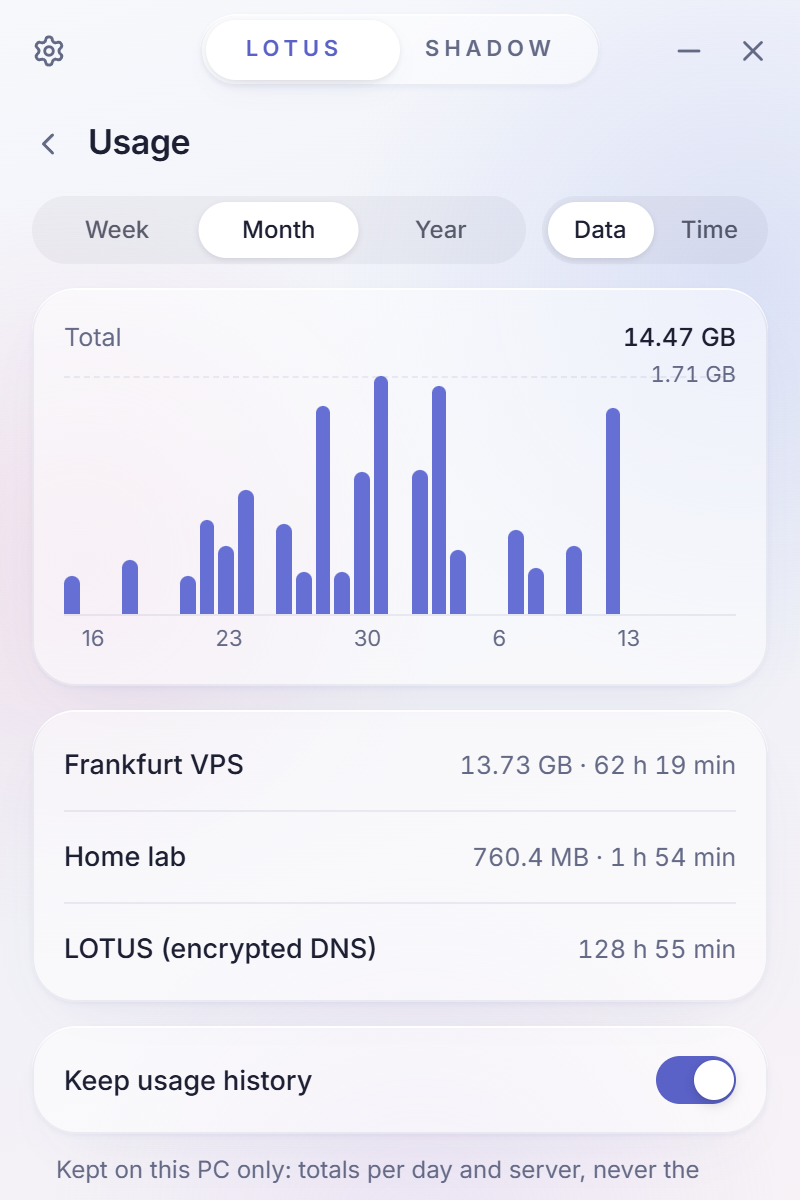
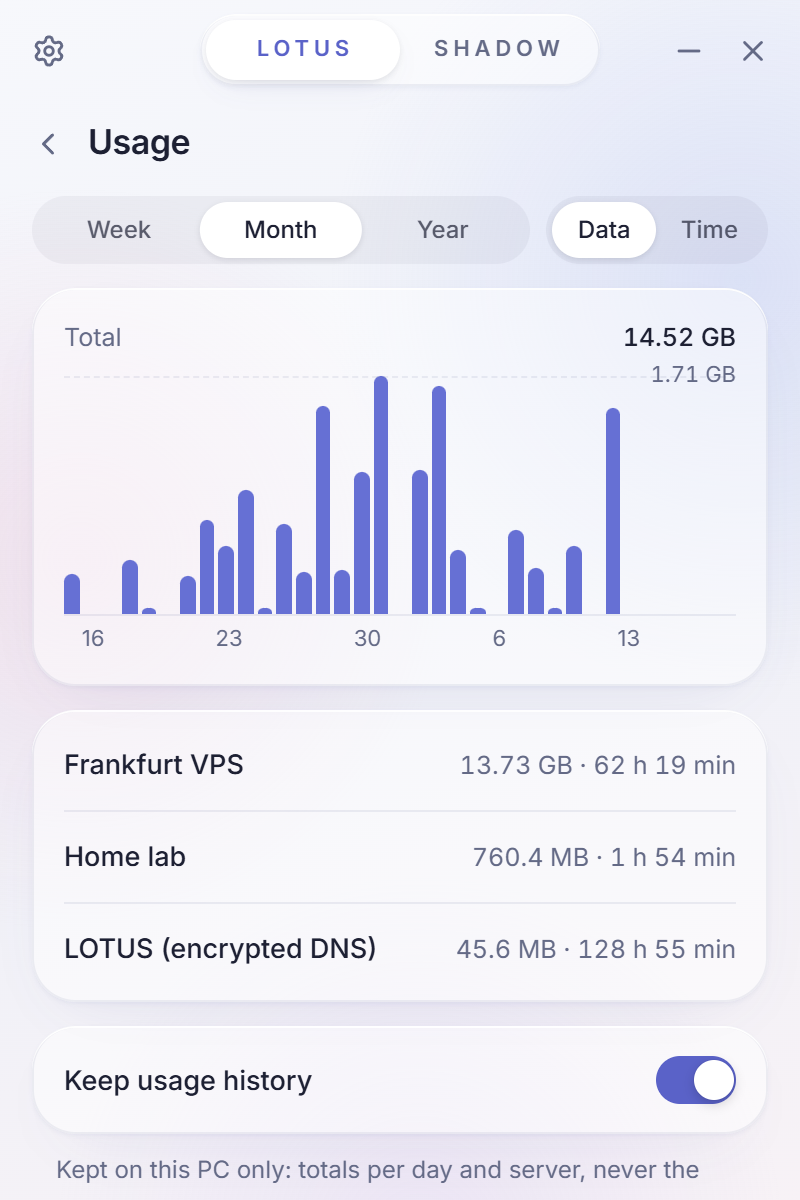
README: new screenshots and hero; clearer text; LOTUS data in usage
- Retook all screenshots from the current app and added two (Connection:
  what goes through your server; Split tunnelling). Hero re-rendered with
  the LOTUS session line. Screenshot grid is now 2 x 4.
- Rewrote the README: shorter intro, tighter mode table with a "You
  choose" row, features grouped (Protection, Control, Insight, Everyday)
  and updated for 1.5-1.6, server script steps as a list, GitHub note
  boxes, test table gains the LOTUS byte check and split-tunnel routing.
- Usage page: LOTUS data (recorded since 1.5.0) now counts in the chart
  and its row, not only time.

diff --git a/app/src/screens/Usage.tsx b/app/src/screens/Usage.tsx
@@ -55,7 +55,7 @@ function buckets(days: UsageDay[], range: Range): Bucket[] {
     const b = index.get(range === "year" ? d.date.slice(0, 7) : d.date);
     if (!b) continue;
     b.seconds += d.seconds;
-    if (d.mode === "shadow") b.bytes += d.up + d.down;
+    b.bytes += d.up + d.down;
   }
   return out;
 }
@@ -67,7 +67,7 @@ function perServer(days: UsageDay[], keys: Set<string>, range: Range) {
     if (!keys.has(range === "year" ? d.date.slice(0, 7) : d.date)) continue;
     const id = d.mode === "lotus" ? "lotus" : `s:${d.server_id ?? d.server ?? "?"}`;
     const r = rows.get(id) ?? { name: d.mode === "lotus" ? "LOTUS (encrypted DNS)" : d.server ?? "Server", bytes: 0, seconds: 0 };
-    r.bytes += d.mode === "shadow" ? d.up + d.down : 0;
+    r.bytes += d.up + d.down;
     r.seconds += d.seconds;
     if (d.server) r.name = d.mode === "lotus" ? r.name : d.server;
     rows.set(id, r);

diff --git a/app/src/dev/mock.ts b/app/src/dev/mock.ts
@@ -276,7 +276,7 @@ export async function installMock() {
             const seed = Math.sin(i * 12.9898) * 43758.5453;
             const r = seed - Math.floor(seed);
             if (r < 0.18) continue;
-            out.push({ date: key, mode: "lotus", seconds: Math.round(3600 * (2 + r * 6)), up: 0, down: 0 });
+            out.push({ date: key, mode: "lotus", seconds: Math.round(3600 * (2 + r * 6)), up: Math.round(4e5 * (1 + r)), down: Math.round(9e5 * (1 + r)) });
             if (r > 0.4) out.push({ date: key, mode: "shadow", server_id: "p1", server: "Frankfurt VPS", seconds: Math.round(3600 * r * 5), up: Math.round(4e7 * r), down: Math.round(1.6e9 * r * r) });
             if (r > 0.85) out.push({ date: key, mode: "shadow", server_id: "p2", server: "Home lab", seconds: Math.round(1800 * r), up: Math.round(9e6 * r), down: Math.round(2e8 * r) });
           }

diff --git a/README.md b/README.md
@@ -16,52 +16,71 @@
 
 ---
 
-LOTUS is a small, fast desktop app with one big switch and two ways to protect you. **LOTUS mode** encrypts every DNS lookup on your PC without changing your IP address. **SHADOW mode** sends your entire device's traffic through an encrypted tunnel to a server *you* own, so websites see your server instead of you.
+LOTUS is a small desktop app with one switch and two ways to protect you:
 
-There's no account, no subscription, no telemetry, and no central LOTUS infrastructure. You choose the resolver, and you run the server.
+- **LOTUS mode** encrypts every DNS lookup on your PC. Your IP address stays the same.
+- **SHADOW mode** sends your traffic through an encrypted tunnel to a server you own, so websites see your server instead of you.
+
+No account, no subscription, no telemetry, and no LOTUS servers in the middle. You pick the resolver and you run the server.
 
 ## Two modes, one switch
 
-| | **LOTUS**: private DNS | **SHADOW**: your own VPN |
+| | **LOTUS** · private DNS | **SHADOW** · your own VPN |
 |---|---|---|
-| **What it protects** | Every DNS lookup, from every app | All traffic from the device: TCP and UDP, IPv4 and IPv6 |
-| **Your public IP** | Unchanged (by design) | Your server's IP |
-| **Needs a server** | No | Yes, any Debian, Ubuntu or Arch Linux VPS (one-script setup) |
-| **Encryption** | DNS-over-HTTPS, DoH over HTTP/3, DNS-over-TLS | VLESS + REALITY + XTLS-Vision by default; Hysteria2, Trojan, Shadowsocks-2022, TUIC, AnyTLS, NaiveProxy, WireGuard |
-| **Leak protection** | Every adapter uses LOTUS; plaintext DNS to any other server is blocked | Full TUN routing, DNS through the tunnel, persistent kill switch, optional split tunnelling |
-| **Extras** | Tracker blocking, malicious-domain filtering, custom resolvers, session stats (DNS data secured, lookup time), usage history | Live console (server check, open connections, throughput), session stats, usage history per server |
+| **Protects** | Every DNS lookup, from every app | All traffic: TCP and UDP, IPv4 and IPv6 |
+| **Your public IP** | Unchanged, by design | Your server's |
+| **Needs a server** | No | Yes: a Debian, Ubuntu or Arch Linux VPS, set up with one script |
+| **Encryption** | DNS-over-HTTPS, DNS-over-HTTP/3, DNS-over-TLS | VLESS + REALITY + Vision by default; also Hysteria2, Trojan, Shadowsocks-2022, TUIC, AnyTLS, NaiveProxy, WireGuard |
+| **Leak protection** | Every network adapter uses LOTUS; plain DNS to anything else is blocked | Whole-device tunnel, DNS through the tunnel, a kill switch that survives crashes |
+| **You choose** | Resolver, protocol, tracker and malware blocking | What goes through the server, and which apps and sites skip it |
 
-> LOTUS mode can't hide your IP: that's only possible by relaying traffic through another machine, which is exactly what SHADOW does. Read more in [LOTUS vs SHADOW](docs/MODES.md).
+LOTUS mode can't hide your IP address. Only relaying your traffic through another machine can, and that's what SHADOW does. More in [LOTUS vs SHADOW](docs/MODES.md).
 
 ## Screenshots
 
 <table>
   <tr>
-    <td align="center"><img src="docs/screenshots/lotus-off.png" width="240" alt="LOTUS mode, off"><br><sub>LOTUS: ready</sub></td>
-    <td align="center"><img src="docs/screenshots/lotus-on.png" width="240" alt="LOTUS mode, protected, showing DNS data secured, session time and lookup time"><br><sub>LOTUS: protected, with session stats</sub></td>
-    <td align="center"><img src="docs/screenshots/shadow-on.png" width="240" alt="SHADOW mode, connected, showing traffic secured, session time and latency"><br><sub>SHADOW: connected, traffic secured</sub></td>
+    <td align="center" width="25%"><img src="docs/screenshots/lotus-off.png" alt="LOTUS mode, off"><br><sub>LOTUS, ready</sub></td>
+    <td align="center" width="25%"><img src="docs/screenshots/lotus-on.png" alt="LOTUS mode on: DNS data secured, session time and lookup time"><br><sub>LOTUS, protected</sub></td>
+    <td align="center" width="25%"><img src="docs/screenshots/shadow-off.png" alt="SHADOW mode, off"><br><sub>SHADOW, ready</sub></td>
+    <td align="center" width="25%"><img src="docs/screenshots/shadow-on.png" alt="SHADOW mode on: data secured, session time, latency and exit IP"><br><sub>SHADOW, connected</sub></td>
   </tr>
   <tr>
-    <td align="center"><img src="docs/screenshots/shadow-off.png" width="240" alt="SHADOW mode, off"><br><sub>SHADOW: midnight theme</sub></td>
-    <td align="center"><img src="docs/screenshots/console.png" width="240" alt="Live console with server verification and live connections"><br><sub>Live console: verify your server, watch traffic</sub></td>
-    <td align="center"><img src="docs/screenshots/usage.png" width="240" alt="Usage history: data per day this month and per server"><br><sub>Usage history, kept on your PC</sub></td>
+    <td align="center"><img src="docs/screenshots/connection.png" alt="Connection settings: send traffic and DNS, traffic only, or DNS only through your server"><br><sub>Choose what goes through your server</sub></td>
+    <td align="center"><img src="docs/screenshots/split.png" alt="Split tunnelling: excluded apps and sites, with apps open now to add"><br><sub>Split tunnelling</sub></td>
+    <td align="center"><img src="docs/screenshots/console.png" alt="Live console: server check and live connections"><br><sub>Live console</sub></td>
+    <td align="center"><img src="docs/screenshots/usage.png" alt="Usage history: data per day this month and per server"><br><sub>Usage history</sub></td>
   </tr>
 </table>
 
-## Highlights
+## Features
 
-- **Calm and quick.** Glass panels, a soft light that follows your pointer, and motion that settles in about 200 ms. It's ready about 120 ms after launch, and while nothing changes the window draws nothing at all. Drag it from anywhere along the top.
-- **See it working.** The SHADOW live console verifies your server (an authenticated handshake, plus what a stranger probing it sees: for REALITY, the camouflage site's real certificate), graphs throughput, and lists every open connection and whether it goes through the tunnel.
-- **Choose what goes through your server.** Everything, traffic only (faster lookups straight to the encrypted resolver) or DNS only. Split tunnelling excludes apps and sites from the tunnel, or sends only the ones you list. Pick apps from the ones open now.
-- **Switch without dropping out.** Picking the other tab leaves your connection alone; press the switch to move over. If the new mode or server can't connect, the one you were on comes straight back. Changing the resolver or other settings while connected applies at once, and is undone if it would leave you offline.
-- **Usage history.** Data and time per day, month or year, per server. Only totals are kept, never the sites you visit, and only on your PC. Switch it off or clear it whenever you like.
-- **Keeps itself up to date.** LOTUS checks GitHub for new releases every few hours and downloads them in the background. Updates are signed, and install only when you press *Restart to update*. Protection pauses for a moment and resumes by itself. Or check by hand in **Settings → Updates**.
-- **Honest status.** SHADOW reports *Connected* only after a real handshake with your server **and** a request through Windows' own routing came back from your server's IP. LOTUS reports *Protected* only after the encrypted resolver actually answered.
-- **A kill switch that survives crashes.** Persistent Windows Filtering Platform rules allow only the tunnel. In testing, killing the engine *or the LOTUS service itself* leaked nothing, and the connection came back by itself.
-- **Bring your own server.** Paste a `vless://`, `ss://`, `trojan://`, `hysteria2://`, `tuic://`, `anytls://`, `naive+https://` link, a WireGuard `.conf` or sing-box JSON. Or run the included installer on a fresh VPS and paste the `lotus://` link it prints.
-- **Secure by default.** There is no "allow insecure" switch anywhere. Links that disable certificate checks, or use unencrypted or obsolete protocols, are refused with an explanation.
-- **Privacy by design.** No accounts or analytics. Engine logs stay in memory at warning level with addresses scrubbed. Server profiles are encrypted with your Windows account (DPAPI).
-- **Light.** The background service uses ~17 MB, and the networking engine ~41–66 MB while on (none when off). With the window closed, LOTUS releases its web view completely and idles at ~5 MB.
+**Protection**
+
+- **Honest status.** SHADOW says *Connected* only after a real handshake with your server and a test request through Windows' own routing that came back from your server's address. LOTUS says *Protected* only once the encrypted resolver has actually answered.
+- **A kill switch that survives crashes.** Windows Filtering Platform rules let only the tunnel through. In testing, killing the engine or the LOTUS service leaked nothing, and the connection came back by itself.
+- **Secure by default.** There is no "allow insecure" option. Links that turn off certificate checks or use unencrypted or outdated protocols are refused, with an explanation.
+- **Private by design.** No accounts and no analytics. Engine logs stay in memory, with addresses removed. Saved servers are encrypted with your Windows account.
+
+**Control**
+
+- **Choose what goes through your server.** Everything, traffic only (lookups go straight to the encrypted resolver, which is faster), or DNS only.
+- **Split tunnelling.** Exclude apps and sites from the tunnel, or send only the ones you list. Pick apps from the ones open now. Games and calls you exclude keep full speed.
+- **Switch without dropping out.** Choosing the other mode leaves your connection on until you press the switch. If the new mode or server can't connect, the previous one comes straight back. Settings changed while connected apply at once, and are undone if they would leave you offline.
+- **Bring your own server.** Paste a `vless://`, `ss://`, `trojan://`, `hysteria2://`, `tuic://`, `anytls://` or `naive+https://` link, a WireGuard `.conf` or sing-box JSON. Or run the included installer on a fresh VPS and paste the `lotus://` link it prints.
+
+**Insight**
+
+- **Live session stats.** Data secured, time connected and latency, for both modes. In SHADOW with a split tunnel, only what actually used the tunnel is counted.
+- **Live console.** Checks your server (an authenticated handshake, plus what a stranger probing it sees), graphs throughput, and lists every open connection and whether it uses the tunnel.
+- **Usage history.** Data and time per day, month or year, per server and for LOTUS mode. Only totals are kept, never the sites you visit, and only on your PC. Turn it off or clear it at any time.
+- **Privacy check.** One click tests for DNS leaks, IPv6 leaks, routing and the kill switch.
+
+**Everyday**
+
+- **Calm and quick.** Ready about 120 ms after launch, and the window does no drawing while nothing changes. Animations can be Full, Less (short, smooth fades with no bouncing) or None.
+- **Updates itself.** LOTUS checks for new releases every few hours and downloads them in the background. Updates are signed and install only when you choose *Restart to update*.
+- **Light.** The background service uses about 17 MB, and the networking engine 41–66 MB while on (nothing when off). With the window closed, LOTUS idles at about 5 MB.
 
 ## How it works
 
@@ -72,82 +91,90 @@ flowchart LR
     SVC --> ENG["sing-box engine<br/>(SHA-256 verified)"]
     SVC --> WFP["Windows Filtering Platform<br/>DNS guard · kill switch"]
   end
-  ENG -- "LOTUS · DoH / DoH3 / DoT" --> DNS["Encrypted resolver<br/>Cloudflare · Quad9 · Mullvad · AdGuard"]
-  ENG -- "SHADOW · VLESS + REALITY + Vision<br/>or Hysteria2 (QUIC)" --> VPS["Your VPS<br/>exit IP"]
+  ENG -- "LOTUS · DoH / DoH3 / DoT" --> DNS["Encrypted resolver<br/>Cloudflare · Quad9 · Mullvad · AdGuard · Google"]
+  ENG -- "SHADOW · VLESS + REALITY + Vision<br/>or Hysteria2 (QUIC)" --> VPS["Your server<br/>exit IP"]
   VPS --> NET(("Internet"))
 ```
 
-The window you click on has **no privileges**. A small Windows service does the privileged work (DNS settings, the tunnel adapter, firewall rules) and accepts only a fixed set of typed commands. It never takes raw engine configuration, file paths or programs to run. Details in [ARCHITECTURE.md](docs/ARCHITECTURE.md).
+The window you click on has no special permissions. A small Windows service does the privileged work (DNS settings, the tunnel adapter, firewall rules) and accepts only a fixed set of typed commands: never raw engine configuration, file paths or programs to run. Details in [ARCHITECTURE.md](docs/ARCHITECTURE.md).
 
 ## Install
 
 1. Download **`LOTUS_1.6.1_x64-setup.exe`** from the [latest release](https://github.com/HighSkai/Lotus/releases/latest) and approve the administrator prompt.
 2. Open LOTUS, choose **LOTUS** or **SHADOW** at the top, and press the switch.
 
-From 1.2.0 on, LOTUS updates itself (see **Settings → Updates**). Coming from 1.1.0 or earlier, install 1.2.0 once by hand.
+Requires Windows 10 or 11 (x64). WebView2 comes with Windows 11 and is installed automatically if missing.
 
-Requirements: Windows 10 or 11 (x64). WebView2 ships with Windows 11 and is installed automatically if missing.
+> [!NOTE]
+> The installer isn't code-signed yet, so SmartScreen may show *"Windows protected your PC"*. Check the SHA-256 published with the release, then choose **More info → Run anyway**.
 
-> **Note:** the installer isn't code-signed yet, so SmartScreen may say *"Windows protected your PC"*. Choose **More info → Run anyway** after checking the SHA-256 published with the release.
+LOTUS keeps itself up to date from version 1.2.0 on. If you have 1.1.0 or earlier, install the latest version once by hand.
 
-Uninstalling (Settings → Apps → LOTUS) stops the service, restores your original DNS settings and removes every LOTUS firewall rule.
+To uninstall, use **Settings → Apps → LOTUS**. It stops the service, restores your original DNS settings and removes every LOTUS firewall rule.
 
 ## Set up your own server (SHADOW)
 
-On a VPS (or any Linux machine with a public IP) running one of:
+Any VPS or Linux machine with a public IP address, x86-64 or ARM64:
 
 | Distribution | Versions |
 |---|---|
 | Debian | 12, 13 |
 | Ubuntu | 22.04, 24.04 |
-| **Arch Linux** | rolling (also Manjaro, EndeavourOS and other Arch derivatives) |
-
-x86-64 and ARM64 are both supported.
+| Arch Linux | Rolling, including Manjaro, EndeavourOS and other Arch-based systems |
 
 ```bash
 curl -fsSLO https://github.com/HighSkai/Lotus/releases/latest/download/lotus-server-install.sh
-sudo bash lotus-server-install.sh                 # add --with-hysteria2 for a UDP/QUIC profile too
+sudo bash lotus-server-install.sh        # add --with-hysteria2 for a UDP/QUIC profile as well
 ```
 
-The script verifies the sing-box download against a pinned SHA-256, generates REALITY keys, installs a hardened systemd service, **asks** before opening ports (it never overwrites existing firewall rules), and checks the result with a real handshake before printing your `lotus://` link. Paste the link into **LOTUS → Add server → Paste**. Remove everything with `--uninstall`. Full guide: [BYO-SERVER.md](docs/BYO-SERVER.md).
+The script:
+
+- checks the sing-box download against a pinned SHA-256
+- generates REALITY keys and installs a hardened systemd service
+- asks before opening ports, and never overwrites existing firewall rules
+- tests the result with a real handshake, then prints your `lotus://` link
+
+Paste the link into **LOTUS → Add server → Paste**. Remove everything with `--uninstall`. The full guide is in [BYO-SERVER.md](docs/BYO-SERVER.md).
 
 ## Why VLESS + REALITY + Vision?
 
-Of the maintained options in late 2026, it gives the best balance:
+Of the maintained options in late 2026, it strikes the best balance:
 
-- **It looks ordinary.** The handshake is a current-browser-style TLS 1.3 visit to a real, popular website.
-- **It's hard to probe.** Anyone who isn't authenticated is quietly passed to that real site and sees its real certificate.
-- **It's easy to run.** It needs no domain or certificate.
-- **It's fast.** Vision avoids double-encrypting traffic that is already encrypted; measured close to line rate (~1 Gbps) through the full Windows tunnel.
+- **It looks ordinary.** The handshake looks like a current browser's TLS 1.3 visit to a real, popular website.
+- **It's hard to probe.** Anyone without your key is quietly passed to that real site and sees its real certificate.
+- **It's easy to run.** No domain or certificate needed.
+- **It's fast.** Vision avoids encrypting already-encrypted traffic twice; measured close to 1 Gbps through the full Windows tunnel.
 
-Hysteria2 (QUIC, with Chrome-like handshake parroting and a pinned server key) is the second option for lossy links. The full research, including what was rejected and why, is in [PROTOCOLS.md](docs/PROTOCOLS.md).
+Hysteria2 (QUIC, with a browser-like handshake and a pinned server key) is the alternative for lossy connections. The research, including what was rejected and why, is in [PROTOCOLS.md](docs/PROTOCOLS.md).
 
-> **No tool makes traffic undetectable**, and LOTUS doesn't claim to. It raises the cost of detection and keeps your data encrypted. Use it lawfully and in line with your network's rules.
+> [!IMPORTANT]
+> No tool makes traffic undetectable, and LOTUS doesn't claim to. It raises the cost of detection and keeps your data encrypted. Use it lawfully and within your network's rules.
 
-## Verified, not assumed
+## Tested, not assumed
 
-Every claim above was checked on a real Windows 11 PC with Windows' own tools and packet captures of the network card. A few results:
+Each result was checked on a real Windows 11 PC with Windows' own tools and packet captures of the network card.
 
 | Check | Result |
 |---|---|
-| LOTUS: each of the 5 resolvers answers when selected, over DoH, DoH3 or DoT, TLS 1.3 | Pass (16 of 16 combinations) |
-| LOTUS: plaintext DNS on the wire while on | None (0 of 1,338 packets) |
-| LOTUS: apps with hard-coded DNS (8.8.8.8:53) blocked | Pass |
-| SHADOW: share of bytes on the network card going to your server | 99.7%; 0 packets anywhere else |
-| SHADOW: an unencrypted web request, readable without LOTUS | Not visible on the wire; still arrives from the server |
-| SHADOW: all IPv4/IPv6 routes via the tunnel, TCP + UDP | Pass |
+| LOTUS: every resolver answers over DoH, DoH3 and DoT, with TLS 1.3 | Pass (16 of 16) |
+| LOTUS: plain DNS on the wire while on | None (0 of 1,338 packets) |
+| LOTUS: apps with hard-coded DNS (8.8.8.8:53) | Blocked |
+| LOTUS: data secured vs a packet capture | Identical, to the byte |
+| SHADOW: share of bytes going to your server | 99.7%, nothing anywhere else |
+| SHADOW: an unencrypted web request | Not readable on the wire |
+| SHADOW: IPv4 and IPv6, TCP and UDP routed via the tunnel | Pass |
+| Split tunnelling and "send through your server" choices, judged at both ends | Routed as set, in every mode |
 | Kill switch: deliberate bypass attempt (IPv4 and IPv6) | Blocked |
-| Engine killed mid-session: leak / recovery | none / ~2 s |
-| Service killed mid-session: leak / recovery | none / ~5 s |
-| Connect time (incl. verification) | ~1.9 s |
-| Throughput through the tunnel vs direct | ~0.5–1.2 Gbps vs ~0.7–1.25 Gbps |
-| Uninstall while active: DNS restored, no rules left | Pass |
+| Engine killed mid-session: leak / recovery | None / about 2 s |
+| Service killed mid-session: leak / recovery | None / about 5 s |
+| Time to connect, including checks | About 1.9 s |
+| Uninstall while connected | DNS restored, no rules left |
 
-Real servers too: a Google Cloud Debian VM (exit IP changed, 6/6 privacy checks pass, REALITY probed from outside shows only the camouflage site) and an Arch Linux machine. The full audit, interface performance numbers, and what *hasn't* been verified yet are in [TESTING.md](docs/TESTING.md).
+LOTUS has also been run against real servers: a Google Cloud Debian VM (exit IP changed, all privacy checks pass, and probing it from outside shows only the camouflage site) and an Arch Linux machine. The full audit, performance figures, and what hasn't been verified yet are in [TESTING.md](docs/TESTING.md).
 
 ## Build from source
 
-Requires Windows 10/11 x64, Rust (stable, MSVC), Visual Studio 2022 Build Tools (C++), and Node.js 20+.
+Requires Windows 10/11 x64, Rust (stable, MSVC), Visual Studio 2022 Build Tools (C++) and Node.js 20+.
 
 ```powershell
 git clone https://github.com/HighSkai/Lotus.git
@@ -155,7 +182,7 @@ cd Lotus
 powershell -ExecutionPolicy Bypass -File scripts\build.ps1
 ```
 
-`build.ps1` fetches the pinned engine (SHA-256 verified), runs the test suite (every generated engine config is validated by the real `sing-box check`), builds the service and app, and writes the installer to `target\release\bundle\nsis\`. If the update signing key exists (`%USERPROFILE%\.tauri\lotus-updater.key`), it also signs the installer and writes `latest.json`; upload both with the release so installed copies can update.
+`build.ps1` fetches the pinned engine (SHA-256 verified), runs the tests (every generated engine configuration is checked by the real `sing-box check`), builds the service and the app, and writes the installer to `target\release\bundle\nsis\`. If the update signing key exists at `%USERPROFILE%\.tauri\lotus-updater.key`, it also signs the installer and writes `latest.json`; upload both with the release so installed copies can update.
 
 <details>
 <summary>Development loop and command-line control</summary>
@@ -168,36 +195,36 @@ powershell -ExecutionPolicy Bypass -File scripts\dev-install.ps1 -AllowUserContr
 cd app; npm install; npx tauri dev
 ```
 
-`cd app; npm run dev` on its own previews the interface in a browser at http://127.0.0.1:1420 with fake data, no service needed.
+Run `cd app; npm run dev` on its own to preview the interface in a browser at http://127.0.0.1:1420 with sample data, no service needed.
 
-`lotus-service ctl status | lotus | shadow <link> | test <link> | verify <link> | connections | usage | diag | speed | logs | disconnect` drives the service from a terminal.
+Drive the service from a terminal with `lotus-service ctl status | lotus | shadow <link> | test <link> | verify <link> | connections | usage | diag | speed | logs | disconnect`.
 </details>
 
 ## Project layout
 
 ```
-crates/lotus-core      profiles, importers, validation, engine config builders, IPC types (no OS calls)
-crates/lotus-service   privileged Windows service: engine supervisor, DNS, WFP firewall, named-pipe IPC
-app/                   Tauri 2 + React desktop app (unprivileged): tray, encrypted profile store, signed updater
+crates/lotus-core      profiles, importers, validation, engine configuration, IPC types (no OS calls)
+crates/lotus-service   privileged Windows service: engine supervisor, DNS, firewall, named-pipe IPC
+app/                   Tauri 2 + React desktop app (unprivileged): tray, encrypted server store, signed updater
 server/                exit-server installer (Debian, Ubuntu, Arch Linux)
-scripts/               pinned engine fetch, release build, dev install, failure-injection tests
+scripts/               pinned engine fetch, release build, development install, failure tests
 docs/                  documentation
 ```
 
 ## Documentation
 
-| | |
+| Guide | What it covers |
 |---|---|
 | [LOTUS vs SHADOW](docs/MODES.md) | What each mode protects, and what it doesn't |
-| [Bring your own server](docs/BYO-SERVER.md) | Installer, existing servers, manual setup, choosing a camouflage site |
-| [Protocols](docs/PROTOCOLS.md) | Research, choices, supported formats |
-| [Architecture](docs/ARCHITECTURE.md) | Components, security boundaries, IPC, macOS/Linux roadmap |
-| [Privacy & security](docs/PRIVACY-SECURITY.md) | What LOTUS contacts, threat model, limitations |
-| [Testing](docs/TESTING.md) | Every test, how it was run, measured results |
+| [Bring your own server](docs/BYO-SERVER.md) | The installer, existing servers, manual setup, choosing a camouflage site |
+| [Protocols](docs/PROTOCOLS.md) | Research, choices and supported formats |
+| [Architecture](docs/ARCHITECTURE.md) | Components, security boundaries, IPC, plans for macOS and Linux |
+| [Privacy & security](docs/PRIVACY-SECURITY.md) | What LOTUS contacts, the threat model, limitations |
+| [Testing](docs/TESTING.md) | Every test, how it was run, and the results |
 | [Troubleshooting](docs/TROUBLESHOOTING.md) | Common problems and fixes |
 
 ## License
 
-LOTUS is free software, licensed under the [GNU General Public License v3.0 or later](LICENSE).
+LOTUS is free software under the [GNU General Public License v3.0 or later](LICENSE).
 
 It builds on [sing-box](https://github.com/SagerNet/sing-box) (GPL-3.0-or-later), [Tauri](https://tauri.app), [React](https://react.dev), [shadcn/ui](https://ui.shadcn.com), [Motion](https://motion.dev) and the [sing-geosite](https://github.com/SagerNet/sing-geosite) rule-set. See [THIRD_PARTY_NOTICES.md](THIRD_PARTY_NOTICES.md).
